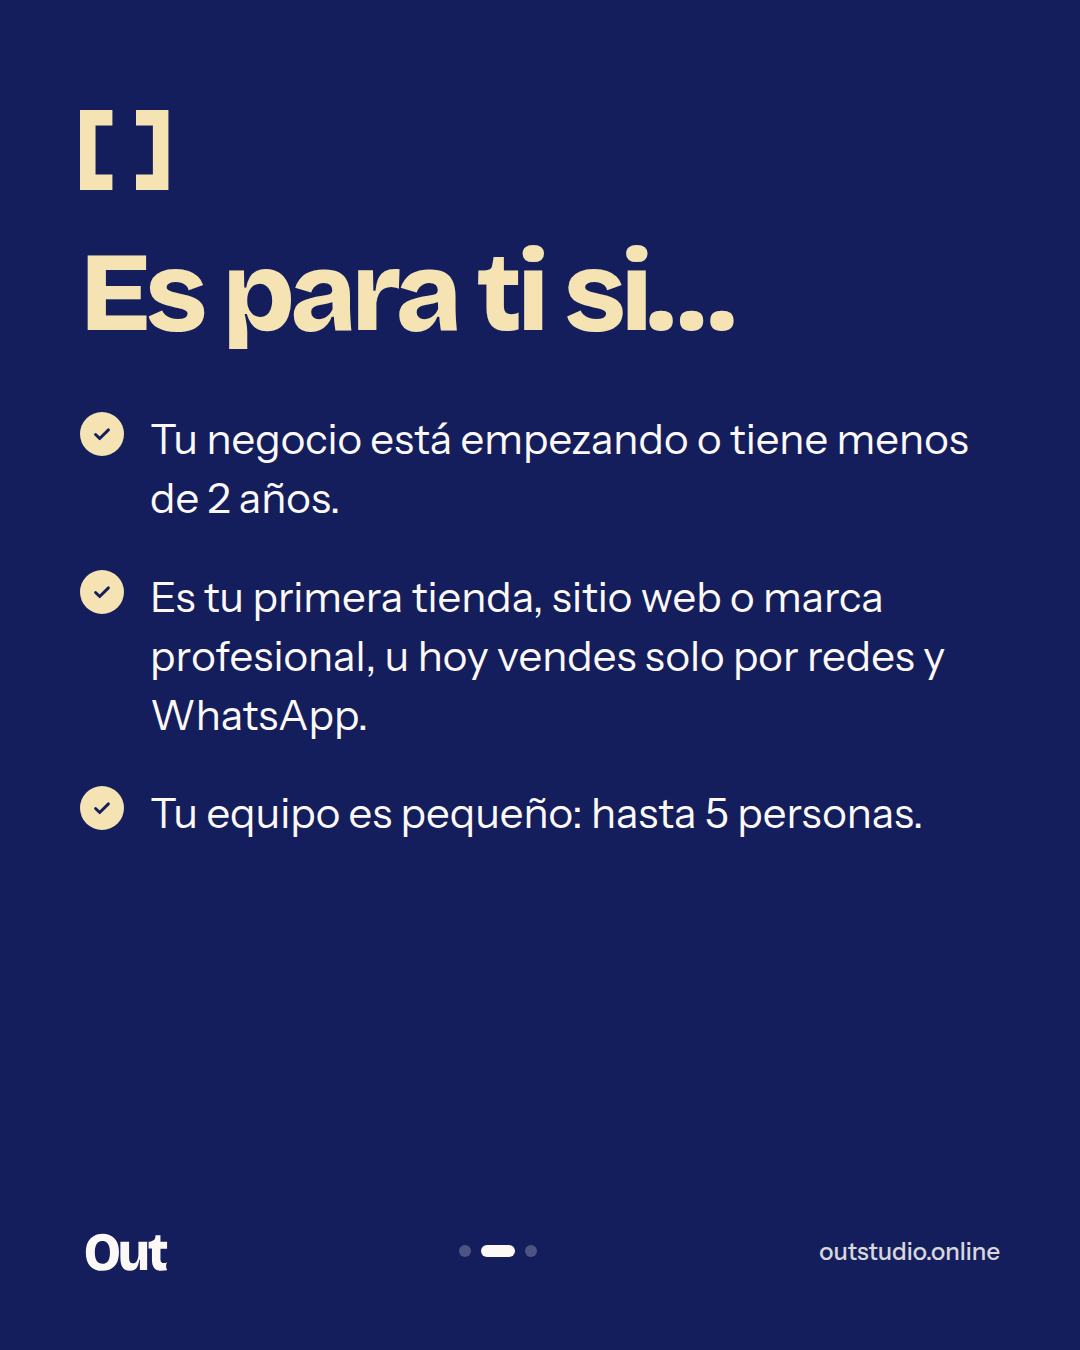
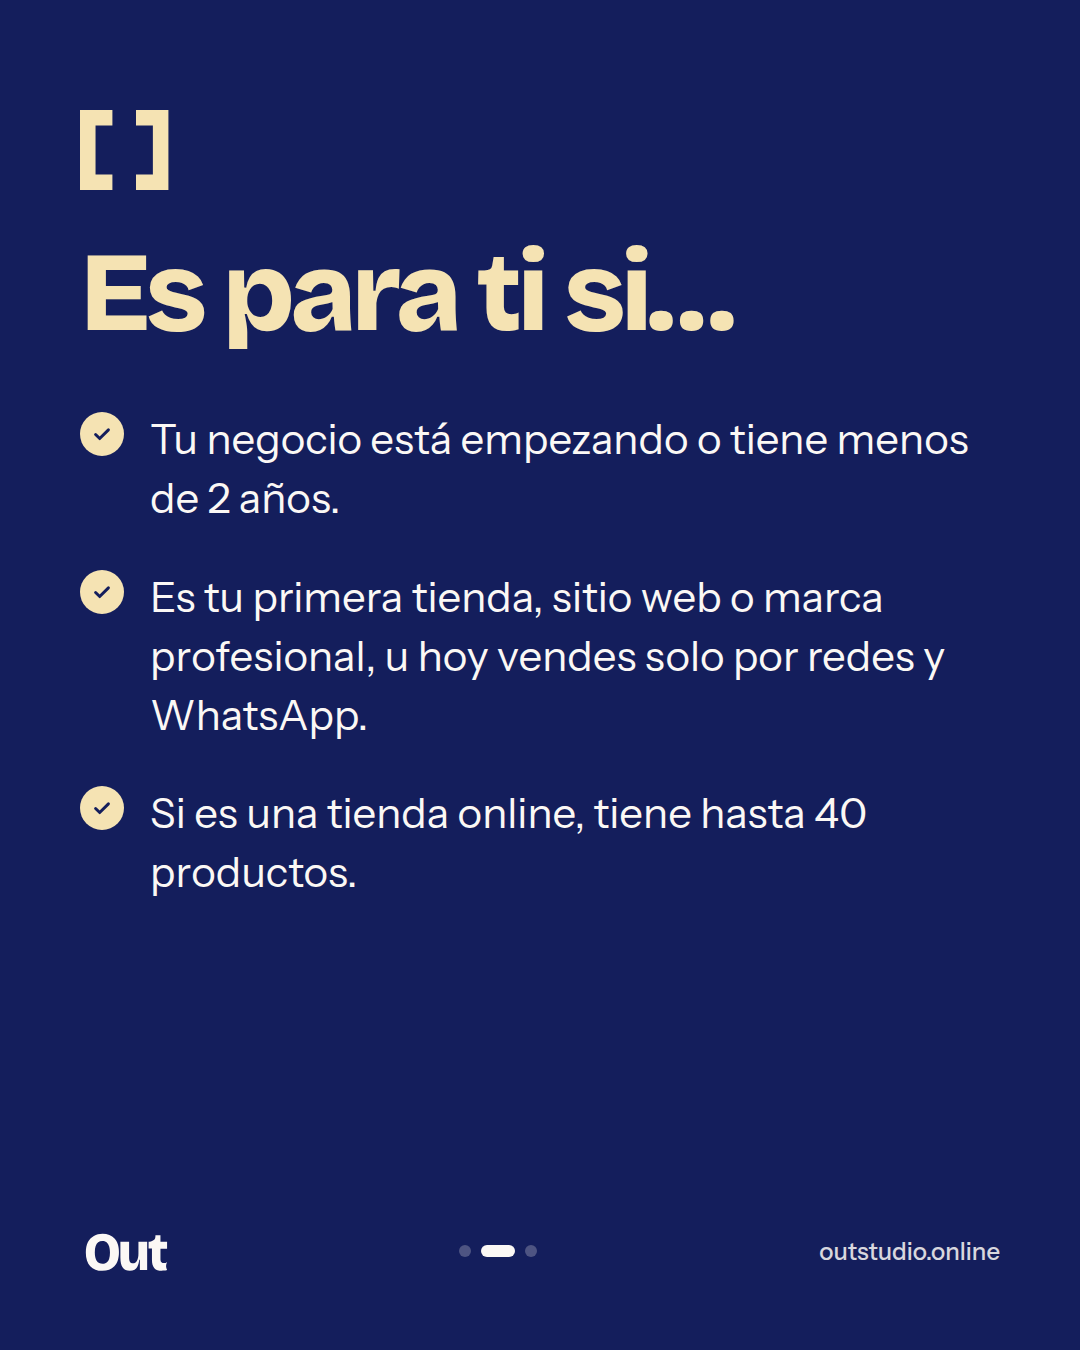
Out Emprende: calificación por alcance y etapa del negocio
- Tope de 40 productos y sin criterio de tamaño de equipo.
- A quien le interesa el plan (o tiene dudas) el formulario y Mango le
  preguntan hace cuánto vende y si ya tiene web, con opciones.
- El brief y el generador muestran la etiqueta: califica, a revisar en la
  reunión o no califica, con los motivos.
- Criterios y preguntas frecuentes actualizados en la página, más la
  pieza de Instagram y el contexto de producto.

Claude-Session: https://claude.ai/code/session_01BzT1ouPAUQAyY91NofEXdp

Changed region(s): [[0.1222, 0.5911, 0.8556, 0.6533]]

diff --git a/src/data/quote.ts b/src/data/quote.ts
@@ -16,12 +16,26 @@ export interface Question {
   /** Para text/long: se muestra con las preguntas rápidas en vez de ir en
    *  "Más detalles" (cuando no hay opciones que lo reemplacen). */
   open?: boolean;
+  /** Solo se muestra según la respuesta a otra pregunta del mismo bloque. */
+  showIf?: { id: string; not: string[] };
 }
 
 /** Las preguntas abiertas son opcionales y van en un bloque aparte: quien
  *  quiera dar más contexto lo hace, pero nunca frenan la encuesta. */
 export const isDetail = (q: Question) =>
   (q.kind === 'text' || q.kind === 'long') && !q.open;
+
+/** ¿Se muestra la pregunta, según lo que ya respondió en su bloque? Las
+ *  ocultas no se piden ni van en el brief. */
+export function isVisible(q: Question, scope: string, answers: Answers): boolean {
+  if (!q.showIf) return true;
+  const v = answers[`${scope}.${q.showIf.id}`];
+  if (v == null || v === '') return false;
+  return !(Array.isArray(v) ? v : [v]).some((x) => q.showIf!.not.includes(x));
+}
+
+export const visibleQuestions = (qs: Question[], scope: string, answers: Answers) =>
+  qs.filter((q) => isVisible(q, scope, answers));
 
 export interface ProjectType {
   id: string;
@@ -52,7 +66,7 @@ export const PROJECT_TYPES: ProjectType[] = [
         label: '¿Cuántos productos tendrá aproximadamente?',
         kind: 'single',
         required: true,
-        options: ['1 a 20', '21 a 100', '101 a 500', 'Más de 500'],
+        options: ['1 a 20', '21 a 40', '41 a 100', '101 a 500', 'Más de 500'],
       },
       {
         id: 'funciones',
@@ -413,13 +427,34 @@ export const COMMON_QUESTIONS: Question[] = [
   {
     id: 'emprende',
     label: '¿Tu negocio está empezando? (Out Emprende)',
-    help: 'Out Emprende es para negocios con menos de 2 años y equipo de hasta 5 personas: tu proyecto hasta en 3 cuotas sin intereses.',
+    help: 'Out Emprende es para negocios que están empezando: tu proyecto hasta en 3 cuotas sin intereses. Confirmamos si aplicas en la primera conversación.',
     kind: 'single',
     required: true,
     options: [
       'Sí, me interesa Out Emprende',
       'No, busco un proyecto a medida',
       'No sé, recomiéndenme',
+    ],
+  },
+  // Para saber si califica a Out Emprende: solo si le interesa o tiene dudas.
+  {
+    id: 'antiguedad',
+    label: '¿Hace cuánto vende tu negocio?',
+    kind: 'single',
+    required: true,
+    showIf: { id: 'emprende', not: ['No, busco un proyecto a medida'] },
+    options: ['Todavía no vendo', 'Menos de 1 año', '1 a 2 años', 'Más de 2 años'],
+  },
+  {
+    id: 'web',
+    label: '¿Ya tienes página web o tienda online?',
+    kind: 'single',
+    required: true,
+    showIf: { id: 'emprende', not: ['No, busco un proyecto a medida'] },
+    options: [
+      'No, vendo por redes sociales o WhatsApp',
+      'No, es lo primero que hago',
+      'Sí, pero quiero cambiarla o mejorarla',
     ],
   },
   {
@@ -502,7 +537,7 @@ function formatAnswer(value: Answer | undefined): string {
 }
 
 function section(title: string, questions: Question[], scope: string, answers: Answers) {
-  const lines = questions.map(
+  const lines = visibleQuestions(questions, scope, answers).map(
     (q) => `• ${q.label}\n  → ${formatAnswer(answers[answerKey(scope, q.id)])}`,
   );
   return `=== ${title.toUpperCase()} ===\n${lines.join('\n')}`;
@@ -531,10 +566,92 @@ export function buildBrief(
     `Empresa o marca: ${contact.company || '—'}`,
     `Referido por: ${contact.referral?.trim() || '—'}`,
     `Proyectos solicitados: ${types.map((t) => t.label).join(', ')}`,
+    ...emprendeLines(typeIds, answers),
     ...types.map((t) => section(t.label, t.questions, t.id, answers)),
     section('Sobre el proyecto', COMMON_QUESTIONS, 'comun', answers),
   ];
   return parts.join('\n\n');
+}
+
+// ---------------------------------------------------------------------------
+// Out Emprende: ¿califica?
+// ---------------------------------------------------------------------------
+
+/** Tope de productos que carga Out dentro del plan. */
+export const EMPRENDE_MAX_PRODUCTS = 40;
+const OVER_PRODUCTS = ['41 a 100', '101 a 500', 'Más de 500'];
+const SPECIAL_FEATURES = [
+  'Venta por suscripción o recurrente',
+  'Varios idiomas o monedas',
+  'Facturación electrónica o inventario (ERP)',
+];
+
+export interface EmprendeCheck {
+  status: 'si' | 'revisar' | 'no';
+  label: string;
+  reasons: string[];
+}
+
+/**
+ * Califica la solicitud a Out Emprende (null si no le interesa). Lo que
+ * decide es que el proyecto quepa en el plan (hasta 40 productos, sin
+ * integraciones especiales) y que el negocio esté empezando: menos de 2 años
+ * vendiendo o su primera web. Si cabe pero no está empezando, queda para
+ * revisar en la reunión uno a uno.
+ */
+export function emprendeCheck(typeIds: string[], answers: Answers): EmprendeCheck | null {
+  const interest = answers[answerKey('comun', 'emprende')];
+  if (!interest || interest === 'No, busco un proyecto a medida') return null;
+
+  const one = (key: string) => {
+    const v = answers[key];
+    return Array.isArray(v) ? v[0] : v;
+  };
+  const antiguedad = one(answerKey('comun', 'antiguedad'));
+  const web = one(answerKey('comun', 'web'));
+  const productos = typeIds.includes('shopify') ? one(answerKey('shopify', 'productos')) : undefined;
+  const funcionesRaw = typeIds.includes('shopify') ? answers[answerKey('shopify', 'funciones')] : undefined;
+  const funciones = Array.isArray(funcionesRaw) ? funcionesRaw : funcionesRaw ? [funcionesRaw] : [];
+
+  const reasons: string[] = [];
+  const young = !!antiguedad && antiguedad !== 'Más de 2 años';
+  const firstWeb = !!web && !web.startsWith('Sí');
+  if (antiguedad) {
+    reasons.push(
+      antiguedad === 'Todavía no vendo'
+        ? 'Todavía no vende'
+        : young
+          ? `Vende hace poco (${antiguedad.toLowerCase()})`
+          : 'Lleva más de 2 años vendiendo',
+    );
+  }
+  if (web) reasons.push(firstWeb ? 'Es su primera página o tienda' : 'Ya tiene página o tienda');
+
+  const overProducts = !!productos && OVER_PRODUCTS.includes(productos);
+  const special = funciones.filter((f) => SPECIAL_FEATURES.includes(f));
+  const automation = typeIds.includes('automatizacion');
+  if (overProducts) reasons.push(`Más de ${EMPRENDE_MAX_PRODUCTS} productos (${productos})`);
+  if (special.length) reasons.push(`Necesita integraciones especiales: ${special.join(', ').toLowerCase()}`);
+  if (automation) reasons.push('Pide integraciones y automatizaciones');
+
+  const fits = !overProducts && !special.length && !automation;
+  const status: EmprendeCheck['status'] = !fits
+    ? 'no'
+    : young || firstWeb
+      ? 'si'
+      : 'revisar';
+  const label = {
+    si: 'Califica a Out Emprende',
+    revisar: 'Out Emprende: a revisar en la reunión',
+    no: 'No califica a Out Emprende (necesita una propuesta a la medida)',
+  }[status];
+  return { status, label, reasons };
+}
+
+function emprendeLines(typeIds: string[], answers: Answers): string[] {
+  const check = emprendeCheck(typeIds, answers);
+  if (!check) return [];
+  return [`Out Emprende: ${check.label}${check.reasons.length ? `\n  ${check.reasons.join('\n  ')}` : ''}`];
 }
 
 // ---------------------------------------------------------------------------
@@ -617,7 +734,7 @@ export function answerGroups(
 ): AnswerGroup[] {
   const make = (title: string, qs: Question[], scope: string): AnswerGroup => ({
     title,
-    rows: qs
+    rows: visibleQuestions(qs, scope, answers)
       .map((q) => ({
         question: q.label,
         answer: formatAnswer(answers[answerKey(scope, q.id)]),

diff --git a/out-emprende/index.html b/out-emprende/index.html
@@ -31,7 +31,7 @@
 
     <script type="application/ld+json">{"@context":"https://schema.org","@type":"Service","name":"Out Emprende: tu proyecto web, hasta en 3 cuotas","description":"Tienda online, sitio web, landing page o marca para emprendedores en Colombia, con diseño UX/UI a la medida y hasta en 3 cuotas sin intereses.","url":"https://outstudio.online/out-emprende/","serviceType":"Out Emprende","provider":{"@id":"https://outstudio.online/#organization"},"areaServed":{"@type":"Country","name":"Colombia"}}</script>
     <script type="application/ld+json">{"@context":"https://schema.org","@type":"BreadcrumbList","itemListElement":[{"@type":"ListItem","position":1,"name":"Inicio","item":"https://outstudio.online/"},{"@type":"ListItem","position":2,"name":"Out Emprende","item":"https://outstudio.online/out-emprende/"}]}</script>
-    <script type="application/ld+json">{"@context":"https://schema.org","@type":"FAQPage","mainEntity":[{"@type":"Question","name":"¿Cómo funcionan las cuotas?","acceptedAnswer":{"@type":"Answer","text":"Te enviamos una cotización a la medida de tu tienda y puedes pagarla hasta en 3 cuotas mensuales sin intereses: la primera para arrancar y las demás cada 30 días."}},{"@type":"Question","name":"¿Qué tipo de proyectos incluye?","acceptedAnswer":{"@type":"Answer","text":"Tiendas online en Shopify, sitios web informativos en WordPress, landing pages y branding (logo e identidad visual). Puedes hacer uno solo o combinarlos."}},{"@type":"Question","name":"¿Cuánto cuesta?","acceptedAnswer":{"@type":"Answer","text":"Depende de tu tienda, así que no damos una cifra al azar. Cuéntanos tu proyecto y te enviamos la cotización en 6 a 24 horas, con un valor pensado para emprendedores."}},{"@type":"Question","name":"¿Cuántos productos puedo tener?","acceptedAnswer":{"@type":"Answer","text":"Si es una tienda online, los que quieras: cargamos todos tus productos, sin límite."}},{"@type":"Question","name":"¿Cómo sé si califico para Out Emprende?","acceptedAnswer":{"@type":"Answer","text":"Es para negocios de cualquier sector que están empezando o llevan menos de 2 años en el mercado, con un equipo de hasta 5 personas, que hacen su primera tienda, sitio o marca y no necesitan integraciones especiales. Si tienes dudas, cuéntanos tu caso y te decimos."}},{"@type":"Question","name":"¿Qué no incluye?","acceptedAnswer":{"@type":"Answer","text":"No incluye integraciones a medida (facturación electrónica, inventario o ERP), suscripciones, varios idiomas o monedas, ni costos de terceros como la mensualidad de Shopify, el hosting y dominio, las aplicaciones de pago o las comisiones de la pasarela."}},{"@type":"Question","name":"¿Puedo crecer después?","acceptedAnswer":{"@type":"Answer","text":"Sí. Cuando tu negocio lo necesite, ampliamos tu tienda o la llevamos a un proyecto a medida."}}]}</script>
+    <script type="application/ld+json">{"@context":"https://schema.org","@type":"FAQPage","mainEntity":[{"@type":"Question","name":"¿Cómo funcionan las cuotas?","acceptedAnswer":{"@type":"Answer","text":"Te enviamos una cotización a la medida de tu tienda y puedes pagarla hasta en 3 cuotas mensuales sin intereses: la primera para arrancar y las demás cada 30 días."}},{"@type":"Question","name":"¿Qué tipo de proyectos incluye?","acceptedAnswer":{"@type":"Answer","text":"Tiendas online en Shopify, sitios web informativos en WordPress, landing pages y branding (logo e identidad visual). Puedes hacer uno solo o combinarlos."}},{"@type":"Question","name":"¿Cuánto cuesta?","acceptedAnswer":{"@type":"Answer","text":"Depende de tu tienda, así que no damos una cifra al azar. Cuéntanos tu proyecto y te enviamos la cotización en 6 a 24 horas, con un valor pensado para emprendedores."}},{"@type":"Question","name":"¿Cuántos productos puedo tener?","acceptedAnswer":{"@type":"Answer","text":"Si es una tienda online, el plan incluye hasta 40 productos y nosotros los cargamos. Si tienes más, te armamos una propuesta a la medida."}},{"@type":"Question","name":"¿Cómo sé si califico para Out Emprende?","acceptedAnswer":{"@type":"Answer","text":"Es para negocios de cualquier sector que están empezando o llevan menos de 2 años vendiendo, o que hacen su primera tienda, sitio o marca, con hasta 40 productos si es una tienda y sin integraciones especiales. Al pedir tu cotización te hacemos dos preguntas rápidas y confirmamos si aplicas en la primera conversación."}},{"@type":"Question","name":"¿Qué no incluye?","acceptedAnswer":{"@type":"Answer","text":"No incluye integraciones a medida (facturación electrónica, inventario o ERP), suscripciones, varios idiomas o monedas, ni costos de terceros como la mensualidad de Shopify, el hosting y dominio, las aplicaciones de pago o las comisiones de la pasarela."}},{"@type":"Question","name":"¿Puedo crecer después?","acceptedAnswer":{"@type":"Answer","text":"Sí. Cuando tu negocio lo necesite, ampliamos tu tienda o la llevamos a un proyecto a medida."}}]}</script>
   </head>
   <body>
     <div id="root" data-slug="out-emprende"></div>

diff --git a/src/pages/QuoteBuilderPage.tsx b/src/pages/QuoteBuilderPage.tsx
@@ -16,6 +16,7 @@ import {
   answerGroups,
   answerKey,
   decodePayload,
+  emprendeCheck,
 } from '../data/quote';
 
 const INPUT =
@@ -221,6 +222,11 @@ export default function QuoteBuilderPage() {
     }`;
   }, [draft, storageKey]);
 
+  const emprende = useMemo(
+    () => (payload ? emprendeCheck(payload.types, payload.answers) : null),
+    [payload],
+  );
+
   const groups = useMemo(
     () => (payload ? answerGroups(payload.types, payload.answers) : []),
     [payload],
@@ -305,6 +311,26 @@ export default function QuoteBuilderPage() {
                 ? `Brief cargado de ${payload.contact.name}. Pon los valores y ajusta lo que quieras: el dossier se actualiza al lado.`
                 : 'Sin brief: abre el link que llega en el correo de la solicitud para cargarlo, o llena todo a mano.'}
             </p>
+            {emprende && (
+              <div
+                className={`mt-3 rounded-xl px-4 py-3 text-sm ${
+                  emprende.status === 'si'
+                    ? 'bg-klein text-paper-pure'
+                    : emprende.status === 'revisar'
+                      ? 'bg-carne text-klein-deep'
+                      : 'bg-paper text-klein-deep border border-klein-deep/15'
+                }`}
+              >
+                <p className="font-display font-bold">{emprende.label}</p>
+                {emprende.reasons.length > 0 && (
+                  <ul className="mt-1.5 text-xs leading-relaxed opacity-90 list-disc pl-4">
+                    {emprende.reasons.map((r) => (
+                      <li key={r}>{r}</li>
+                    ))}
+                  </ul>
+                )}
+              </div>
+            )}
           </div>
 
           <Group title="Cliente">

diff --git a/src/components/MangoChat.tsx b/src/components/MangoChat.tsx
@@ -8,6 +8,7 @@ import {
   answerKey,
   isAnswered,
   isDetail,
+  visibleQuestions,
 } from '../data/quote';
 import { EMAIL } from '../data/site';
 import { useQuoteForm } from '../lib/useQuoteForm';
@@ -130,8 +131,8 @@ export function useChatState() {
   const prompts = useMemo(() => {
     const types = PROJECT_TYPES.filter((t) => form.selected.includes(t.id));
     const all = [
-      ...types.flatMap((t) => t.questions.map((q) => fromQuestion(q, t.id))),
-      ...COMMON_QUESTIONS.map((q) => fromQuestion(q, 'comun')),
+      ...types.flatMap((t) => visibleQuestions(t.questions, t.id, form.answers).map((q) => fromQuestion(q, t.id))),
+      ...visibleQuestions(COMMON_QUESTIONS, 'comun', form.answers).map((q) => fromQuestion(q, 'comun')),
     ];
     const quick = all.filter((p) => !p.question || !isDetail(p.question));
     const detailPrompts = all.filter((p) => p.question && isDetail(p.question));
@@ -142,7 +143,7 @@ export function useChatState() {
       ...(details ? detailPrompts : []),
       ...CONTACT_PROMPTS,
     ];
-  }, [form.selected, details]);
+  }, [form.selected, form.answers, details]);
 
   // Cada vez que avanza o retrocede, Mango "escribe" un instante.
   const first = useRef(true);

diff --git a/src/lib/useQuoteForm.ts b/src/lib/useQuoteForm.ts
@@ -9,6 +9,7 @@ import {
   buildBrief,
   encodePayload,
   isAnswered,
+  visibleQuestions,
 } from '../data/quote';
 import { EMAIL, WEB3FORMS_ACCESS_KEY } from '../data/site';
 
@@ -56,14 +57,14 @@ export function useQuoteForm() {
   const canContinue = (() => {
     if (step === 'tipos') return selected.length > 0;
     if (step === 'comun') {
-      return COMMON_QUESTIONS.every((q) =>
+      return visibleQuestions(COMMON_QUESTIONS, 'comun', answers).every((q) =>
         isAnswered(q, answers[answerKey('comun', q.id)]),
       );
     }
     if (step === 'contacto') {
       return contact.name.trim() !== '' && contact.email.trim() !== '';
     }
-    return (currentType?.questions ?? []).every((q) =>
+    return visibleQuestions(currentType?.questions ?? [], currentType?.id ?? '', answers).every((q) =>
       isAnswered(q, answers[answerKey(currentType!.id, q.id)]),
     );
   })();

diff --git a/src/sections/QuoteSection.tsx b/src/sections/QuoteSection.tsx
@@ -16,6 +16,7 @@ import {
   Question,
   answerKey,
   isDetail,
+  visibleQuestions,
 } from '../data/quote';
 import { EMAIL } from '../data/site';
 import { useQuoteForm } from '../lib/useQuoteForm';
@@ -143,8 +144,9 @@ function QuestionList({
   answers: Answers;
   setAnswer: (key: string, value: Answer) => void;
 }) {
-  const quick = questions.filter((q) => !isDetail(q));
-  const details = questions.filter(isDetail);
+  const shown = visibleQuestions(questions, scope, answers);
+  const quick = shown.filter((q) => !isDetail(q));
+  const details = shown.filter(isDetail);
   const hasDetailAnswers = details.some((q) => {
     const v = answers[answerKey(scope, q.id)];
     return typeof v === 'string' && v.trim() !== '';

diff --git a/.agents/product-marketing.md b/.agents/product-marketing.md
@@ -1,6 +1,6 @@
 # Contexto de producto y marketing: Out Studio
 
-**Document version:** v5
+**Document version:** v6
 **Last updated:** 2026-10-12
 
 > Armado a partir de la web (outstudio.online), el manual de marca y las
@@ -16,7 +16,7 @@
 - Landing page: desde 1.200.000.
 - Tienda Shopify: desde 2.200.000.
 - Sitio WordPress: desde 4.500.000.
-- Out Emprende (emprendedores): hasta en 3 cuotas sin intereses, productos ilimitados; valor no publicado (ver "Ofertas").
+- Out Emprende (emprendedores): hasta en 3 cuotas sin intereses, hasta 40 productos; valor no publicado (ver "Ofertas").
 
 ## Target Audience
 **Target companies:** Tres segmentos, en este orden de prioridad:
@@ -127,10 +127,11 @@
 **Current metrics:** Sin medir todavía. **[por confirmar: proyectos al mes hoy]**
 
 ## Ofertas
-**Out Emprende** (plan para emprendedores de cualquier sector): tienda Shopify, sitio web WordPress, landing page o branding, pagadero hasta en 3 cuotas mensuales sin intereses. Productos ilimitados (Out carga todos los que el cliente quiera). Incluye diseño adaptado a la marca, pasarela de pagos y envíos. El valor NO se publica: se cotiza según la tienda (referencia interna: alrededor de $2.200.000 COP, puede ser más o menos). Mensaje clave: "Tu tienda lista para vender, hasta en 3 cuotas y con todos tus productos". Criterios: negocio que empieza o con menos de 2 años vendiendo, primera tienda online o venta solo por redes y WhatsApp, equipo de hasta 5 personas, sin integraciones especiales. Cuando el negocio crezca, puede pasar a un proyecto a medida.
+**Out Emprende** (plan para emprendedores de cualquier sector): tienda Shopify, sitio web WordPress, landing page o branding, pagadero hasta en 3 cuotas mensuales sin intereses. Hasta 40 productos cargados por Out (más de eso, proyecto a medida). Incluye diseño adaptado a la marca, pasarela de pagos y envíos. El valor NO se publica: se cotiza según la tienda (referencia interna: alrededor de $2.200.000 COP, puede ser más o menos). Mensaje clave: "Tu proyecto web, hasta en 3 cuotas sin intereses". Calificación: el proyecto debe caber en el plan (hasta 40 productos, sin integraciones especiales) y el negocio estar empezando (menos de 2 años vendiendo o primera web). Si cabe pero no está empezando, se revisa en la reunión uno a uno; si no cabe, propuesta a la medida (el pago dividido se puede negociar, no se anuncia). El tamaño del equipo no cuenta. El formulario pregunta antigüedad y si ya tiene web solo a quien le interesa el plan, y el brief llega con la etiqueta de calificación. Cuando el negocio crezca, puede pasar a un proyecto a medida.
 
 ## Changelog
 *Newest first. One line per revision: what changed and why.*
+- v6 (2026-10-12) — Out Emprende: tope de 40 productos, sin criterio de tamaño de equipo y calificación por alcance + etapa del negocio (sí / a revisar / no).
 - v5 (2026-10-12) — Out Emprende ampliado a todos los servicios (tienda, sitio, landing, marca) y a cualquier tipo de negocio; sección propia en el home y en el menú.
 - v4 (2026-10-12) — Out Emprende sin precio publicado: "hasta en 3 cuotas sin intereses", valor cotizado; criterios de elegibilidad añadidos.
 - v3 (2026-10-12) — Definido Out Emprende: tienda Shopify a $2.200.000 en 3 cuotas sin intereses, productos ilimitados.
